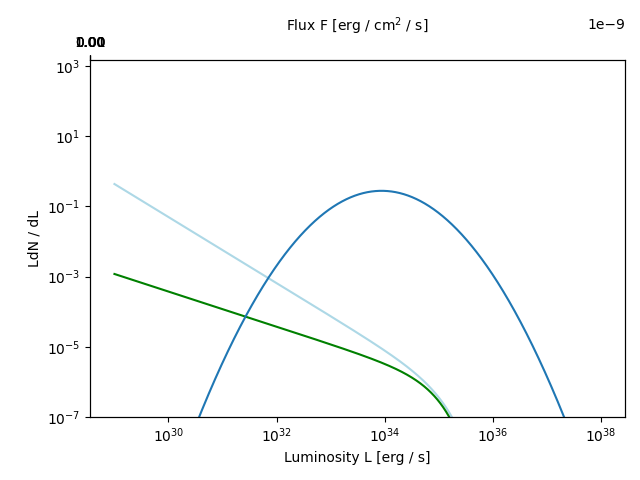
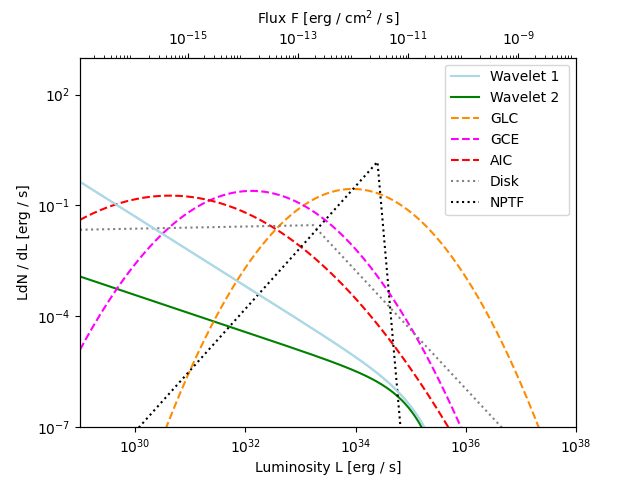
luminosity function impl

diff --git a/luminosity_func.py b/luminosity_func.py
@@ -8,86 +8,170 @@ from scipy.special import gamma
 import os
 
 #****************************************************************************
-#LUMINOSITY FUNCTION EVALUATION
+#LUMINOSITY FUNCTIONS DEFINITIONS
 
-min = 1.0e29      #erg s^(-1)     #min for graph
+#power law lum func(high flux exp c-o, low flux step c-o)
+def power_law (l, alpha , l_min , l_max):   #alpha: slope, l_min = step c-o, l_max: exp c-o               
+    den = gamma((l_min/l_max)) * l_max**(1-alpha)
+    num = l**(-alpha) * np.exp(-l/l_max)
+
+    return num / den 
+#-----------------------------------------------------------------------------
+
+#log normal lum func
+def log_norm (l, l_0 , sigma):                          
+    num = np.log10(np.e)
+    den = sigma * l * (2*np.pi)**0.5 
+    exp = np.exp(-1.0 * (np.log10(l/l_0))**2 / (2 * sigma * sigma))
+
+    return num * exp / den 
+#-----------------------------------------------------------------------------
+
+#broken power law lum func
+def broken_pl(l, l_b, n1, n2):             #l_b: broken point, n1: 1st part index, n2: 2nd part index               
+    norm = (1 - n1) * (1 -n2) / l_b / (n1 - n2)
+    frac = 1.0
+    bpl = []
+
+    for a in range(0, len(l)):
+        if l[a] < l_b:
+            frac = (l[a]/l_b)**(-n1)
+        else:
+            frac = (l[a]/l_b)**(-n2)
+        bpl.append(norm *frac)
+    return bpl
+#****************************************************************************
+#BENCHMARKS EVALUATION
+
+#useful values
+min = 1.0e29       #erg s^(-1)     #min for graph
 max = 1.0e38       #erg s^(-1)     #max for graph
 r = 1.11e-46       #cm^(-2)        #flux/lum ratio
+#linestyle
+ls1 = '--'
+ls2 = 'dotted'
 
-l= np.geomspace(min, max,10000)     #luminosity
+#luminosity and flux 
+l= np.geomspace(min, max,10000)    #luminosity
 f_pl = l * r                       #flux
 
-#power law - wavelet 1
+#-----------------------------------------------------------------------------
+#wavelet 1 - power law 
 l_m1 = 1.0e29  #erg s^(-1)  #L_min : low flux step-func cutoff
 l_M1 = 1.0e35  #erg s^(-1)   #L_MAX : high flux exp cutoff
 alpha1 = 1.94  #slope
 
-
-
-p_pl1 = l**(-alpha1) * np.exp(-l/l_M1) / (gamma((l_m1/l_M1)) * l_M1**(1.0-alpha1)) #calore,cholis,weniger power law lum funcs
+p_pl1 = power_law(l , alpha1 , l_m1 , l_M1) #ming power law lum func
 
 #-----------------------------------------------------------------------------
-#power law - wavelet 2
+#wavelet 2 - power law 
 l_m2 = 1.0e29  #erg s^(-1)  #L_min : low flux step-func cutoff
 l_M2 = 7.0e34  #erg s^(-1)   #L_MAX : high flux exp cutoff
 alpha2 = 1.5  #slope
 
-p_pl2 = l**(-alpha2)  *np.exp(-l/l_M2) / (gamma((l_m2/l_M2)) * l_M2**(1.0-alpha2)) #bartles power law lum funcs
+p_pl2 = power_law(l, alpha2, l_m2, l_M2) #bartles power law lum funcs
 
 #-----------------------------------------------------------------------------
 #GLC - log normal
 l_0_glc = 8.8e33
 sigma_glc = 0.62 
 
-p_glc = np.log10(np.e) / (sigma_glc * (2*np.pi)**(0.5) * l) * np.exp((-1.0* (np.log10(l) - np.log10(l_0_glc))**2)/2/sigma_glc/sigma_glc)
+p_glc = log_norm(l, l_0_glc, sigma_glc)  #log norm from global cluster obs
+
+#-----------------------------------------------------------------------------
+#GCE - log normal
+l_0_gce = 1.3e32
+sigma_gce = 0.70
+
+p_gce = log_norm(l, l_0_gce, sigma_gce)  #log norm from bulge obs
+
+#-----------------------------------------------------------------------------
+#AIC - log normal
+l_0_aic = 4.3e30
+sigma_aic = 0.94
+
+p_aic = log_norm(l, l_0_aic, sigma_aic)  #log norm from bulge obs
+
+#-----------------------------------------------------------------------------
+#Disk - broken power law
+n1_disk = 0.97
+n2_disk = 2.60
+l_b_disk = 1.7e33
+p_disk = []
+
+p_disk = broken_pl(l, l_b_disk, n1_disk, n2_disk)
+
+#-----------------------------------------------------------------------------
+#NPTF - broken power law
+n1_nptf = -0.66
+n2_nptf = 18.2
+l_b_nptf = 2.5e34
+p_nptf = []
+
+p_nptf = broken_pl(l, l_b_nptf, n1_nptf, n2_nptf)
+
 #****************************************************************************
 #PLOTS
 
-#power law
+#power laws plot
 
 fig, ax1 = plt.subplots()
 ax2 = ax1.twiny()
 
-ax1.set_yticks(np.linspace(1.0e-45, 1.e-29, 5))
+ax1.loglog(l,p_pl1, color = 'lightblue', label = 'Wavelet 1')
+ax1.loglog(l, p_pl2, color = 'green', label = 'Wavelet 2 ')
+ax1.loglog(l, p_glc, color = 'darkorange', linestyle = ls1, label= 'GLC')
+ax1.loglog(l, p_gce, color = 'fuchsia', linestyle = ls1, label = 'GCE')
+ax1.loglog(l, p_aic, color = 'red' , linestyle = ls1 , label = 'AIC')
+ax1.loglog(l, p_disk, color = 'gray' , linestyle = ls2, label = 'Disk')
+ax1.loglog(l, p_nptf, color = 'black', linestyle = ls2,  label = 'NPTF')
+ax2.loglog(f_pl, p_pl1, color = 'lightblue')
+
+#graphical config
+ax1.set_yticks(np.geomspace(1.0e-45, 1.e-29, 5))
 ax1.set_xticks(np.geomspace(1.0e30, 1.0e38, 5))
 ax2.set_xticks(np.geomspace(1.0e-15, 1.0e-9, 4))
 
-
 ax1.set_xlabel("Luminosity L [erg / s]")
-ax2.set_xlabel(r'Flux F [erg / $\mathregular{cm^2}$ / s]')
+ax2.set_xlabel(r'Flux F [erg / $\mathregular{cm^2}$ / s]') 
 ax1.set_ylabel("dN / dL")
 
-ax1.loglog(l,p_pl1, color = 'lightblue')
-ax1.loglog(l, p_pl2, color = 'green')
-ax1.loglog(l, p_glc)
-ax2.loglog(f_pl, p_pl1, color = 'lightblue')
-ax2.loglog(f_pl, p_pl2, color = 'green')
-
-#fig.tight_layout()
-plt.ylim(1.0e-45 , 1.0e-29)
+plt.ylim(1.0e-45 , 1.2e-29)
+ax1.set_xlim(min, max)
+ax2.set_xlim(min*r, max*r)
+ax1.legend()
 
 plt.savefig(os.path.join('pl.png'))
 
 #----------------------------------------------------------------------------
-#e-fold
+#e-fold plot
 
 fig2 , ax3 = plt.subplots()
 ax4 = ax3.twiny()
 
+
+
+ax3.loglog(l, l*p_pl1, color = 'lightblue', label = 'Wavelet 1')
+ax3.loglog(l, l*p_pl2, color = 'green', label = 'Wavelet 2 ')
+ax3.loglog(l, l*p_glc, color = 'darkorange', linestyle = ls1, label= 'GLC')
+ax3.loglog(l, l*p_gce, color = 'fuchsia', linestyle = ls1, label = 'GCE')
+ax3.loglog(l, l*p_aic, color = 'red' , linestyle = ls1 , label = 'AIC')
+ax3.loglog(l, l*p_disk, color = 'gray' , linestyle = ls2, label = 'Disk')
+ax3.loglog(l, l*p_nptf, color = 'black', linestyle = ls2,  label = 'NPTF')
+ax4.loglog(f_pl, l * p_pl1, color = 'lightblue')
+
+#graphical config
 ax3.set_yticks(np.geomspace(1.0e-7, 1.0e2, 4))
 ax3.set_xticks(np.geomspace(1.0e30, 1.0e38, 5))
 ax4.set_xticks(np.geomspace(1.0e-15, 1.0e-9, 4))
 
 ax3.set_xlabel("Luminosity L [erg / s]")
 ax4.set_xlabel(r'Flux F [erg / $\mathregular{cm^2}$ / s]')
-ax3.set_ylabel("LdN / dL")
+ax3.set_ylabel("LdN / dL [erg / s]")
 
-ax3.loglog(l,l * p_pl1, color = 'lightblue')
-ax3.loglog(l, l * p_pl2, color = 'green')
-ax3.loglog(l, l*p_glc)
-#ax4.loglog(f_pl,l * p_pl1)
-
-fig2.tight_layout()
-plt.ylim(1.0e-7, 1.5e3)
+plt.ylim(1.0e-7, 1.0e3)
+ax3.set_xlim(min, max)
+ax4.set_xlim(min*r, max*r)
+ax3.legend()
 
 plt.savefig(os.path.join('1efold.png'))
